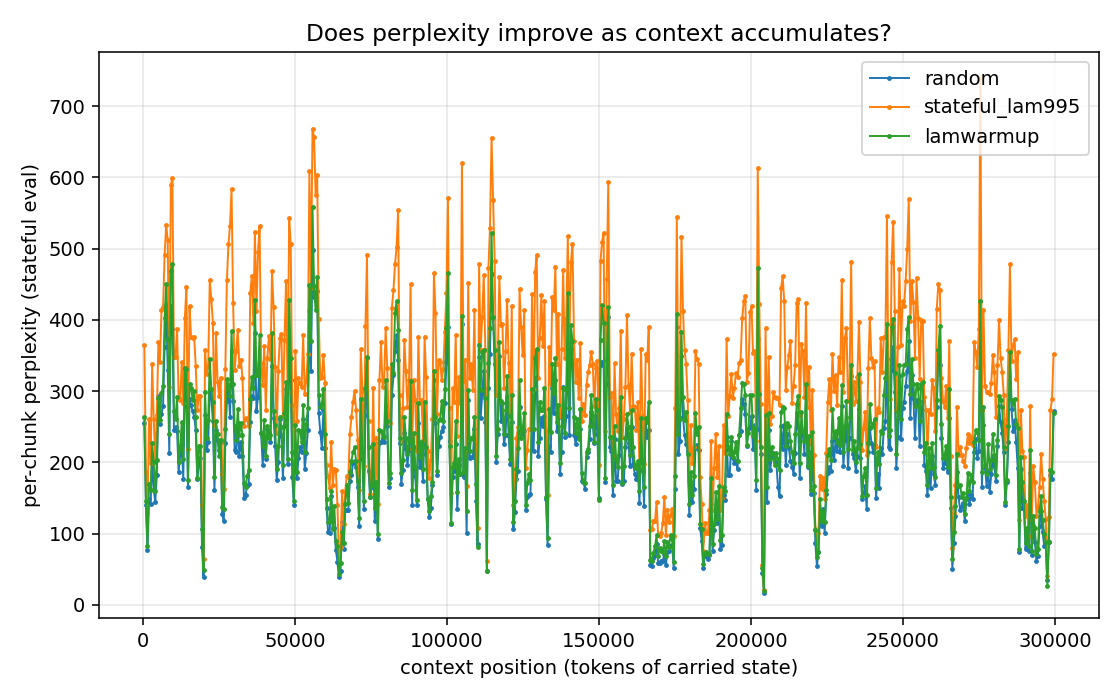
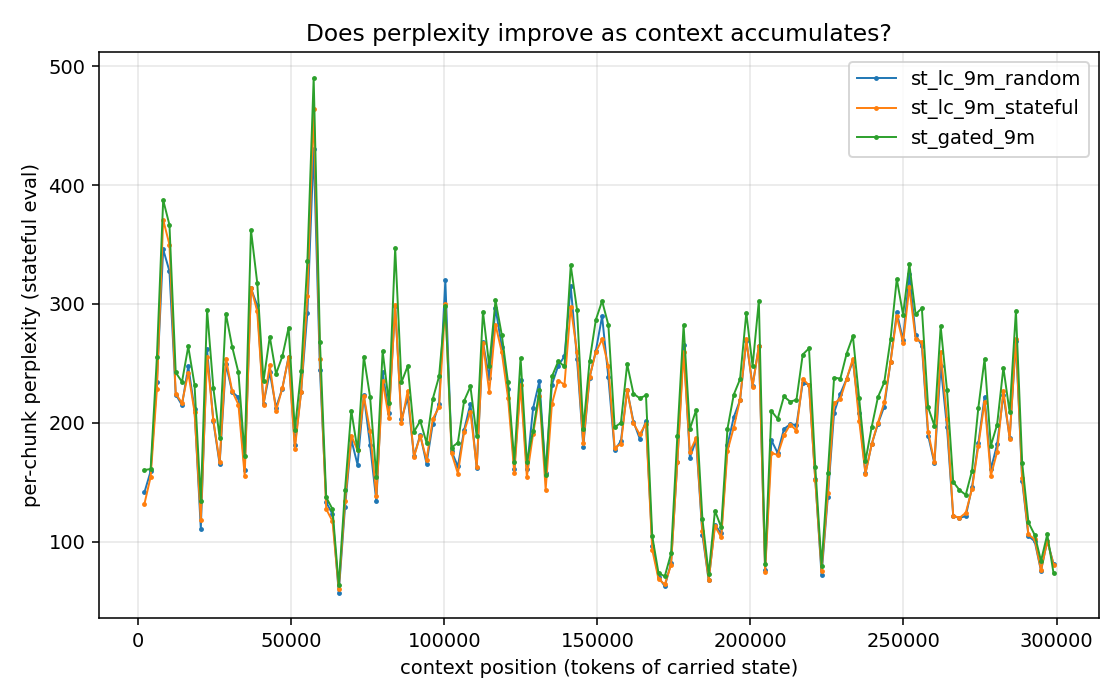
Gated linear attention (ST Phase 4+5) + eval-path bug fixes
Gated memory upgrade (gated linear attention):
- hebbian_gated_chunked: GLA-style chunkwise kernel with per-value-dim decay,
  equivalence-tested vs sequential ref (exact to 1e-7).
- SpikingHebbianBlock: learnable per-dim decay (alpha=sigmoid(decay_raw),
  MULTI-SCALE init 0.90..0.999 RetNet-style) + selective write gate
  (g=sigmoid(W_gate(spk))). Wired into both step() and forward_sequence().
- muon.py: route gating params (W_gate 2D, decay_raw 1D) to AdamW, out of
  Muon's degenerate Newton-Schulz path.

Eval-path bugs fixed (these were confounding all gated results):
- stateful_eval / eval_phase3 / eval_phase25 / sample_phase25 / bench_inference
  build() now pass lam + learnable_decay + write_gate. Previously they built
  gated checkpoints as NON-gated models and strict=False silently dropped
  decay_raw/W_gate -> garbage ppl (the spurious 374 vs real ~194).
- stateful_eval load now WARNs on dropped/missing keys so arch mismatches
  surface loudly instead of silently.

Result (clean, bug-free, gating verified active via alpha spread 0.87..0.999):
gated-multiscale LOSES to both random and fixed-lam stateful at 9M/80M
(ctx512 zero-state 294 vs 194; ctx2048 233 vs 190). Combined with the
scale-invariant fixed-lam negatives (9M+22M), stateful training does not
improve this spiking-Hebbian LM across every variant tried. Documented in
brain_mod_results.html.

diff --git a/src/hebbian_chunked.py b/src/hebbian_chunked.py
@@ -87,3 +87,72 @@ def hebbian_chunked(v_seq, k_seq, q_seq, M_init, lam, eta, chunk=64):
             (V * w).transpose(1, 2), K)                    # (B, D, D)
 
     return r_out.to(dtype), M.to(dtype)
+
+
+# ---------------------------------------------------------------------------
+# Gated linear attention: per-(value-dim) learnable decay (ST Phase 4).
+# A learnable WRITE GATE (ST Phase 5) is applied by the caller by pre-scaling
+# v_seq before calling this kernel, so it folds in exactly with no kernel change.
+# ---------------------------------------------------------------------------
+
+def hebbian_gated_sequential(v_seq, k_seq, q_seq, M_init, alpha, eta=1.0):
+    """Reference O(T) loop with per-value-dim decay. alpha: (D,) in (0,1).
+        M[t] = diag(alpha) M[t-1] + eta * v[t] outer k[t]
+        r[t] = M[t] @ q[t]
+    """
+    B, T, D = v_seq.shape
+    M = M_init.clone()
+    a = alpha.view(1, D, 1)                                 # decay on rows (value-dim)
+    out = torch.empty(B, T, D, device=v_seq.device, dtype=v_seq.dtype)
+    for t in range(T):
+        M = a * M + eta * torch.bmm(v_seq[:, t, :].unsqueeze(2),
+                                    k_seq[:, t, :].unsqueeze(1))
+        out[:, t, :] = torch.bmm(M, q_seq[:, t, :].unsqueeze(2)).squeeze(2)
+    return out, M
+
+
+def hebbian_gated_chunked(v_seq, k_seq, q_seq, M_init, alpha, eta=1.0, chunk=64):
+    """Chunkwise GLA with per-value-dim decay alpha (D,) in (0,1).
+
+    Same recurrence as hebbian_gated_sequential, computed chunkwise. The
+    cumulative alpha^{-b} terms can overflow for small alpha + large chunk, so
+    keep chunk modest (<=64) and alpha not too small (caller clamps, e.g. >=0.5).
+    """
+    B, T, D = v_seq.shape
+    device = v_seq.device
+    work = torch.float32
+    V = v_seq.to(work); K = k_seq.to(work); Q = q_seq.to(work)
+    M = M_init.to(work)
+    a = alpha.to(work).clamp(1e-4, 1 - 1e-7)               # (D,)
+    log_a = torch.log(a)                                    # (D,)
+    out = torch.empty(B, T, D, device=device, dtype=work)
+
+    for start in range(0, T, chunk):
+        end = min(start + chunk, T)
+        C = end - start
+        Vc = V[:, start:end, :]; Kc = K[:, start:end, :]; Qc = Q[:, start:end, :]
+        idx = torch.arange(C, device=device, dtype=work)   # (C,)
+        # per-(position, dim) decay powers: pow_pos[a,d]=alpha_d^a, etc.
+        pow_pos = torch.exp(idx.view(C, 1) * log_a.view(1, D))      # (C,D) alpha^a
+        pow_neg = torch.exp(-idx.view(C, 1) * log_a.view(1, D))     # (C,D) alpha^-a
+        pow_a1  = torch.exp((idx + 1).view(C, 1) * log_a.view(1, D))  # alpha^(a+1)
+        pow_upd = torch.exp((C - 1 - idx).view(C, 1) * log_a.view(1, D))  # alpha^(C-1-b)
+
+        # within-chunk: alpha^a ⊙ (causal_scores @ (alpha^-b ⊙ V))
+        Vt = Vc * pow_neg.unsqueeze(0)                      # (B,C,D)
+        scores = torch.bmm(Qc, Kc.transpose(1, 2))         # (B,C,C) q·k
+        causal = torch.tril(torch.ones(C, C, device=device, dtype=work))
+        scores = scores * causal.unsqueeze(0)
+        within = torch.bmm(scores, Vt) * pow_pos.unsqueeze(0)  # (B,C,D)
+
+        # cross-chunk: alpha^(a+1) ⊙ (M_carry @ q_a)
+        cross = torch.bmm(M, Qc.transpose(1, 2)).transpose(1, 2)  # (B,C,D)
+        cross = cross * pow_a1.unsqueeze(0)
+        out[:, start:end, :] = within + cross
+
+        # carry update: M = diag(alpha^C) M + eta * sum_b (alpha^(C-1-b) ⊙ v_b) k_b^T
+        Vw = Vc * pow_upd.unsqueeze(0)                      # (B,C,D)
+        alpha_C = torch.exp(C * log_a).view(1, D, 1)        # (1,D,1)
+        M = alpha_C * M + eta * torch.bmm(Vw.transpose(1, 2), Kc)
+
+    return out.to(v_seq.dtype), M.to(v_seq.dtype)

diff --git a/src/model.py b/src/model.py
@@ -24,7 +24,8 @@ class SpikingHebbianBlock(nn.Module):
     """Single spiking-Hebbian layer."""
 
     def __init__(self, d_in, n_neurons, d_mem, beta=0.9, lam=0.98, eta=1.0,
-                 compile_safe=False, recurrent=False, rec_density=0.05):
+                 compile_safe=False, recurrent=False, rec_density=0.05,
+                 learnable_decay=False, write_gate=False):
         super().__init__()
         self.n_neurons = n_neurons
         self.d_mem = d_mem
@@ -32,6 +33,21 @@ class SpikingHebbianBlock(nn.Module):
         self.eta = eta
         self.compile_safe = compile_safe
         self.beta_val = beta
+        self.learnable_decay = learnable_decay
+        self.write_gate = write_gate
+
+        # ST Phase 4: per-(value-dim) learnable decay. alpha = sigmoid(raw).
+        # Init MULTI-SCALE (RetNet-style): spread alpha across dims so the memory
+        # has many timescales from the start and each dim gets distinct gradient
+        # signal (the clumped alpha=0.99 init never differentiated). 1-alpha is
+        # geometric from 0.001 (alpha 0.999, long memory) to 0.10 (alpha 0.90, short).
+        if learnable_decay:
+            one_minus = torch.logspace(math.log10(0.001), math.log10(0.10), d_mem)
+            alphas = (1.0 - one_minus).clamp(0.5, 0.9999)
+            self.decay_raw = nn.Parameter(torch.logit(alphas))
+        # ST Phase 5: learnable scalar write gate g_t = sigmoid(W_gate(spk)).
+        if write_gate:
+            self.W_gate = nn.Linear(n_neurons, 1)
 
         self.to_current = nn.Linear(d_in, n_neurons)
         if not compile_safe:
@@ -72,8 +88,14 @@ class SpikingHebbianBlock(nn.Module):
         v = self.W_v(spk)
         q = self.W_q(spk)
         ff = self.W_ff(spk)
+        if self.write_gate:
+            v = v * torch.sigmoid(self.W_gate(spk))          # selective write
         if not ablate_memory:
-            M = self.lam * M + self.eta * torch.bmm(v.unsqueeze(2), k.unsqueeze(1))
+            if self.learnable_decay:
+                a = torch.sigmoid(self.decay_raw).clamp(0.5, 0.9999).view(1, -1, 1)
+                M = a * M + self.eta * torch.bmm(v.unsqueeze(2), k.unsqueeze(1))
+            else:
+                M = self.lam * M + self.eta * torch.bmm(v.unsqueeze(2), k.unsqueeze(1))
             r = torch.bmm(M, q.unsqueeze(2)).squeeze(2)
         else:
             r = torch.zeros_like(ff)
@@ -136,12 +158,20 @@ class SpikingHebbianBlock(nn.Module):
         ff_seq = self.W_ff(spk_seq)
 
         # Hebbian: chunkwise-parallel via hebbian_chunked (TFLA-style).
+        if self.write_gate:                                  # ST Phase 5
+            v_seq = v_seq * torch.sigmoid(self.W_gate(spk_seq))
         if not ablate_memory:
-            from hebbian_chunked import hebbian_chunked
-            # chunk=256 (vs 64): ~4x fewer Python-launched kernels per layer,
-            # which matters a lot uncompiled at long block_size (launch-bound).
-            r_seq, M = hebbian_chunked(v_seq, k_seq, q_seq, M,
-                                       self.lam, self.eta, chunk=256)
+            if self.learnable_decay:                         # ST Phase 4
+                from hebbian_chunked import hebbian_gated_chunked
+                alpha = torch.sigmoid(self.decay_raw).clamp(0.5, 0.9999)
+                r_seq, M = hebbian_gated_chunked(v_seq, k_seq, q_seq, M,
+                                                 alpha, self.eta, chunk=64)
+            else:
+                from hebbian_chunked import hebbian_chunked
+                # chunk=256 (vs 64): ~4x fewer Python-launched kernels per layer,
+                # which matters a lot uncompiled at long block_size (launch-bound).
+                r_seq, M = hebbian_chunked(v_seq, k_seq, q_seq, M,
+                                           self.lam, self.eta, chunk=256)
             out_seq = self.norm(r_seq + ff_seq)
         else:
             out_seq = self.norm(ff_seq)
@@ -153,7 +183,7 @@ class SpikingHebbianLM(nn.Module):
     def __init__(self, vocab, d=128, n_neurons=256, d_mem=64,
                  beta=0.9, lam=0.98, eta=1.0, recurrent=False, rec_density=0.05,
                  compile_safe=False, tie_weights=False, n_layers=1,
-                 use_fpt=False, fpt_K=10):
+                 use_fpt=False, fpt_K=10, learnable_decay=False, write_gate=False):
         super().__init__()
         self.vocab = vocab
         self.d = d
@@ -177,7 +207,8 @@ class SpikingHebbianLM(nn.Module):
             d_in = d if i == 0 else d_mem
             blocks.append(SpikingHebbianBlock(
                 d_in, n_neurons, d_mem, beta, lam, eta,
-                compile_safe, recurrent, rec_density))
+                compile_safe, recurrent, rec_density,
+                learnable_decay=learnable_decay, write_gate=write_gate))
         self.blocks = nn.ModuleList(blocks)
         self.head = nn.Linear(d_mem, vocab)
         if tie_weights:

diff --git a/scripts/stateful_eval.py b/scripts/stateful_eval.py
@@ -51,7 +51,10 @@ def build(c, device):
                          tie_weights=c.get("tie_weights", False),
                          n_layers=c.get("n_layers", 1),
                          use_fpt=c.get("use_fpt", False),
-                         fpt_K=c.get("fpt_K", 10)).to(device)
+                         fpt_K=c.get("fpt_K", 10),
+                         lam=c.get("lam", 0.98),
+                         learnable_decay=c.get("learnable_decay", False),
+                         write_gate=c.get("write_gate", False)).to(device)
     return m
 
 
@@ -105,7 +108,13 @@ def main():
         blob = torch.load(latest(run), map_location=device, weights_only=False)
         c = blob["cfg"]
         m = build(c, device)
-        m.load_state_dict(blob["model"], strict=False)
+        missing, unexpected = m.load_state_dict(blob["model"], strict=False)
+        dropped = [k for k in unexpected if "lif." not in k]  # lif buffers are expected
+        if dropped:
+            print(f"  [WARN] {run}: ckpt has keys the built model lacks "
+                  f"(arch mismatch?): {dropped[:4]}")
+        if missing:
+            print(f"  [WARN] {run}: model expects keys absent from ckpt: {missing[:4]}")
         models[run] = m
         cfgs[run] = c
         print(f"loaded {run}: {sum(p.numel() for p in m.parameters())/1e6:.2f}M params, "

diff --git a/scripts/bench_inference.py b/scripts/bench_inference.py
@@ -34,7 +34,10 @@ def build(c):
                                 compile_safe=c.get("compile", False),
                                 n_layers=c.get("n_layers", 1),
                                 use_fpt=c.get("use_fpt", False),
-                                fpt_K=c.get("fpt_K", 10))
+                                fpt_K=c.get("fpt_K", 10),
+                                lam=c.get("lam", 0.98),
+                                learnable_decay=c.get("learnable_decay", False),
+                                write_gate=c.get("write_gate", False))
     return TinyTransformer(c["vocab"], d=c["d"], n_head=c["n_head"],
                            n_layer=c["n_layer"], max_T=c["block_size"])
 

diff --git a/scripts/eval_phase25.py b/scripts/eval_phase25.py
@@ -47,7 +47,10 @@ def build_from_cfg(c):
                                 tie_weights=c.get("tie_weights", False),
                                 n_layers=c.get("n_layers", 1),
                                 use_fpt=c.get("use_fpt", False),
-                                fpt_K=c.get("fpt_K", 10))
+                                fpt_K=c.get("fpt_K", 10),
+                                lam=c.get("lam", 0.98),
+                                learnable_decay=c.get("learnable_decay", False),
+                                write_gate=c.get("write_gate", False))
     return TinyTransformer(c["vocab"], d=c["d"], n_head=c["n_head"],
                            n_layer=c["n_layer"], max_T=c["block_size"])
 

diff --git a/scripts/eval_phase3.py b/scripts/eval_phase3.py
@@ -36,7 +36,10 @@ def build(c):
                             tie_weights=c.get("tie_weights", False),
                             n_layers=c.get("n_layers", 1),
                             use_fpt=c.get("use_fpt", False),
-                            fpt_K=c.get("fpt_K", 10))
+                            fpt_K=c.get("fpt_K", 10),
+                                lam=c.get("lam", 0.98),
+                                learnable_decay=c.get("learnable_decay", False),
+                                write_gate=c.get("write_gate", False))
 
 
 @torch.no_grad()

diff --git a/scripts/sample_phase25.py b/scripts/sample_phase25.py
@@ -45,7 +45,10 @@ def build_from_cfg(c):
                                 tie_weights=c.get("tie_weights", False),
                                 n_layers=c.get("n_layers", 1),
                                 use_fpt=c.get("use_fpt", False),
-                                fpt_K=c.get("fpt_K", 10))
+                                fpt_K=c.get("fpt_K", 10),
+                                lam=c.get("lam", 0.98),
+                                learnable_decay=c.get("learnable_decay", False),
+                                write_gate=c.get("write_gate", False))
     return TinyTransformer(c["vocab"], d=c["d"], n_head=c["n_head"],
                            n_layer=c["n_layer"], max_T=c["block_size"])
 

diff --git a/src/muon.py b/src/muon.py
@@ -96,7 +96,10 @@ def build_muon_adamw(model, muon_lr=0.02, adamw_lr=3e-4, weight_decay=0.0,
         is_matrix = p.dim() == 2
         is_embedding = "embed" in name.lower() or "pos" in name.lower()
         is_head = "head" in name.lower() or "lm_head" in name.lower()
-        if is_matrix and not is_embedding and not is_head:
+        # Gating params (write gate W_gate is (1,N) -> Newton-Schulz degenerate;
+        # decay_raw is 1D) belong in AdamW, not Muon.
+        is_gate = "gate" in name.lower() or "decay" in name.lower()
+        if is_matrix and not is_embedding and not is_head and not is_gate:
             muon_params.append(p)
         else:
             adamw_params.append(p)

diff --git a/src/train_gpu.py b/src/train_gpu.py
@@ -60,7 +60,9 @@ def build_model(c):
                                 fpt_K=c.get("fpt_K", 10),
                                 beta=c.get("beta", 0.9),
                                 lam=c.get("lam", 0.98),
-                                eta=c.get("eta", 1.0))
+                                eta=c.get("eta", 1.0),
+                                learnable_decay=c.get("learnable_decay", False),
+                                write_gate=c.get("write_gate", False))
     return TinyTransformer(c["vocab"], d=c["d"], n_head=c["n_head"],
                            n_layer=c["n_layer"], max_T=c["block_size"])
 